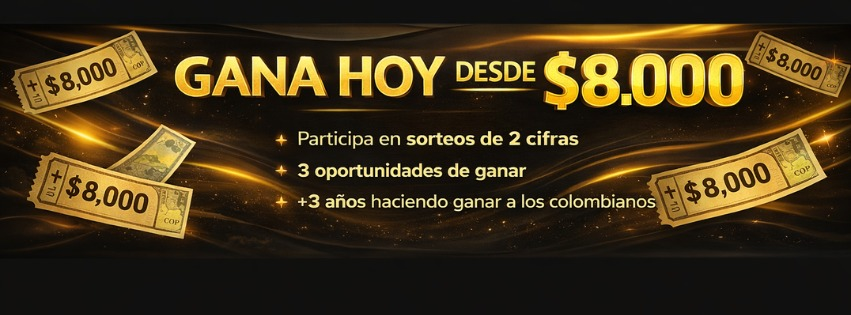
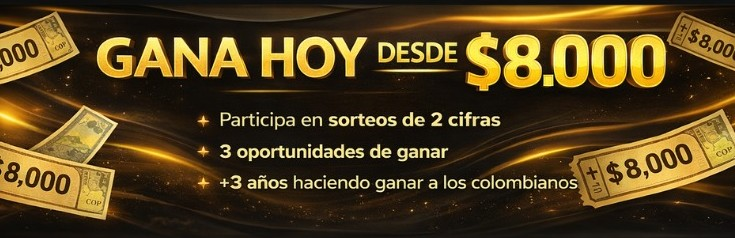
solucion de recortes y espacios negros

diff --git a/style.css b/style.css
@@ -27,7 +27,10 @@ body {
 
 section {
     width: 100%;
-    margin-bottom: 20px;
+    margin: 0 !important;
+    padding: 0 !important;
+    line-height: 0;
+    /* Elimina huecos debajo de las imágenes */
 }
 
 .full-img {
@@ -35,43 +38,34 @@ section {
     display: block;
     height: auto;
     object-fit: contain;
-}
-
-/* Main Slider (Carrusel 1 & 2) */
-.section-slider {
-    position: relative;
-    width: 100%;
-    overflow: hidden;
-    margin-top: 30px;
-}
-
-.slider-wrapper {
-    display: flex;
-    width: 200%;
-    transition: transform 0.8s cubic-bezier(0.45, 0, 0.55, 1);
-}
-
-.slider-img {
-    width: 50%;
-    height: auto;
+    margin: 0 !important;
+    padding: 0 !important;
 }
 
 /* Section WhatsApp */
 .section-whatsapp {
     text-align: center;
-    padding: 20px 0;
+    padding: 10px 0 !important;
+    /* Mínimo padding para que no se pegue el botón */
     display: flex;
     flex-direction: column;
     align-items: center;
-    gap: 15px;
+    gap: 5px;
+    /* Reducido el espacio entre texto y botón */
+    line-height: normal;
+    /* Restablecer para el texto */
+    background: #000;
 }
 
 .whatsapp-text {
     color: #fff;
-    font-size: 0.8rem;
-    font-weight: 400;
-    letter-spacing: 1px;
-    opacity: 0.8;
+    font-size: 1.1rem;
+    /* Texto más grande */
+    font-weight: 700;
+    letter-spacing: 0.5px;
+    opacity: 1;
+    padding: 0 10px;
+    line-height: 1.2;
 }
 
 .whatsapp-btn {
@@ -80,30 +74,30 @@ section {
     text-decoration: none;
     padding: 12px 30px;
     border-radius: 12px;
-    font-weight: 700;
-    font-size: 1rem;
-    box-shadow: 0 4px 15px rgba(0, 255, 0, 0.3);
-    transition: transform 0.3s ease, box-shadow 0.3s ease;
+    font-weight: 800;
+    font-size: 1.1rem;
+    box-shadow: 0 4px 15px rgba(0, 255, 0, 0.4);
+    transition: transform 0.3s ease;
 }
 
 .whatsapp-btn:hover {
     transform: scale(1.05);
-    box-shadow: 0 6px 20px rgba(0, 255, 0, 0.5);
 }
 
 /* Participar Section */
 .section-participar {
-    padding: 10px 0;
+    padding: 0;
 }
 
 /* Section Social Media */
 .section-social {
     text-align: center;
-    padding: 20px 0;
+    padding: 10px 0 40px !important;
     display: flex;
     flex-direction: column;
     align-items: center;
     gap: 15px;
+    line-height: normal;
 }
 
 .social-btns {
@@ -140,31 +134,50 @@ section {
 
 /* Section 4: Testimonios Carousel - SINGLE CARD STYLE */
 .section-testimonios {
-    padding: 20px 0 60px;
+    padding: 0px 0 30px;
     overflow: hidden;
 }
 
 .section-title {
+    text-align: center;
+    font-size: 2.22rem;
+    font-weight: 900;
+    margin: 30px auto;
+    text-transform: uppercase;
+    letter-spacing: 3px;
+    display: block;
+    width: 100%;
+    line-height: 1.2;
+
+    /* Efecto Oro Brillante Dinámico */
     background: linear-gradient(to right,
-            #bf953f,
-            #fcf6ba,
-            #b38728,
-            #fbf5b7,
-            #aa771c);
+            #bf953f 20%,
+            #fcf6ba 40%,
+            #b38728 50%,
+            #fcf6ba 60%,
+            #bf953f 80%);
+    background-size: 200% auto;
     -webkit-background-clip: text;
     background-clip: text;
-    color: transparent;
-    text-align: center;
-    font-size: 1.8rem;
-    font-weight: 900;
-    margin-bottom: 25px;
-    letter-spacing: 3px;
-    text-transform: uppercase;
-    position: relative;
-    display: inline-block;
-    width: 100%;
-    animation: shine-gold 3s linear infinite;
-    background-size: 200% auto;
+    -webkit-text-fill-color: transparent;
+
+    /* Animación del brillo */
+    animation: shine-gold-move 4s linear infinite;
+
+    /* Profundidad 3D sutil */
+    text-shadow: 2px 4px 6px rgba(0, 0, 0, 0.4);
+
+    filter: drop-shadow(0px 2px 2px rgba(184, 134, 11, 0.3));
+}
+
+@keyframes shine-gold-move {
+    0% {
+        background-position: -200% center;
+    }
+
+    100% {
+        background-position: 200% center;
+    }
 }
 
 @keyframes shine-gold {

diff --git a/index.html b/index.html
@@ -11,20 +11,16 @@
 <body>
     <div class="mobile-container">
         <!-- Section 1: Header / Menu Image -->
-        <section class="section-menu reveal reveal-left">
+        <section class="section-menu">
             <img src="header.jpeg" alt="Header Menu" class="full-img">
         </section>
-
-        <!-- Section 2: Main Slider (Carrusel 1 -> Carrusel 2 every 3s) -->
-        <section class="section-slider reveal reveal-right">
-            <div class="slider-wrapper" id="main-slider">
-                <img src="carrusel 1.jpeg" alt="Carrusel 1" class="slider-img">
-                <img src="carrusel 2.jpeg" alt="Carrusel 2" class="slider-img">
-            </div>
+        <!-- Section 2: Carrusel 1 Image -->
+        <section class="section-slider">
+            <img src="carrusel 1.jpeg" alt="Sorteo Principal" class="full-img">
         </section>
 
         <!-- Section 2.5: WhatsApp Button -->
-        <section class="section-whatsapp reveal reveal-left">
+        <section class="section-whatsapp">
             <p class="whatsapp-text">SORTEOS DE 2 CIFRAS - 3 OPORTUNIDADES DE GANAR</p>
             <a href="https://chat.whatsapp.com/FPnBYOkpF2cFlHoybuVo4w?mode=gi_t" target="_blank" class="whatsapp-btn">
                 Unirme al grupo
@@ -32,7 +28,7 @@
         </section>
 
         <!-- Section 3: Participar Image -->
-        <section class="section-participar reveal reveal-left">
+        <section class="section-participar">
             <img src="Participar.jpeg" alt="Participar" class="full-img">
         </section>
 
@@ -60,7 +56,7 @@
         </section>
 
         <!-- Social Media Section -->
-        <section class="section-social reveal reveal-right" style="padding-bottom: 80px;">
+        <section class="section-social reveal reveal-right">
             <p class="whatsapp-text">SÍGUENOS EN REDES SOCIALES</p>
             <div class="social-btns">
                 <a href="https://www.facebook.com/people/Loteria-El-Tesoro/61571773797345/" target="_blank"

diff --git a/script.js b/script.js
@@ -1,18 +1,4 @@
 document.addEventListener('DOMContentLoaded', () => {
-    // 1. Main Slider Logic (Carrusel 1 -> Carrusel 2 every 3s)
-    const mainSlider = document.getElementById('main-slider');
-    let isSecondImage = false;
-
-    if (mainSlider) {
-        setInterval(() => {
-            if (isSecondImage) {
-                mainSlider.style.transform = 'translateX(0%)';
-            } else {
-                mainSlider.style.transform = 'translateX(-50%)';
-            }
-            isSecondImage = !isSecondImage;
-        }, 3000);
-    }
 
     // 2. Testimonios Carousel Logic with Buttons and Auto-scroll
     const testimonioTrack = document.querySelector('.testimonio-track');
